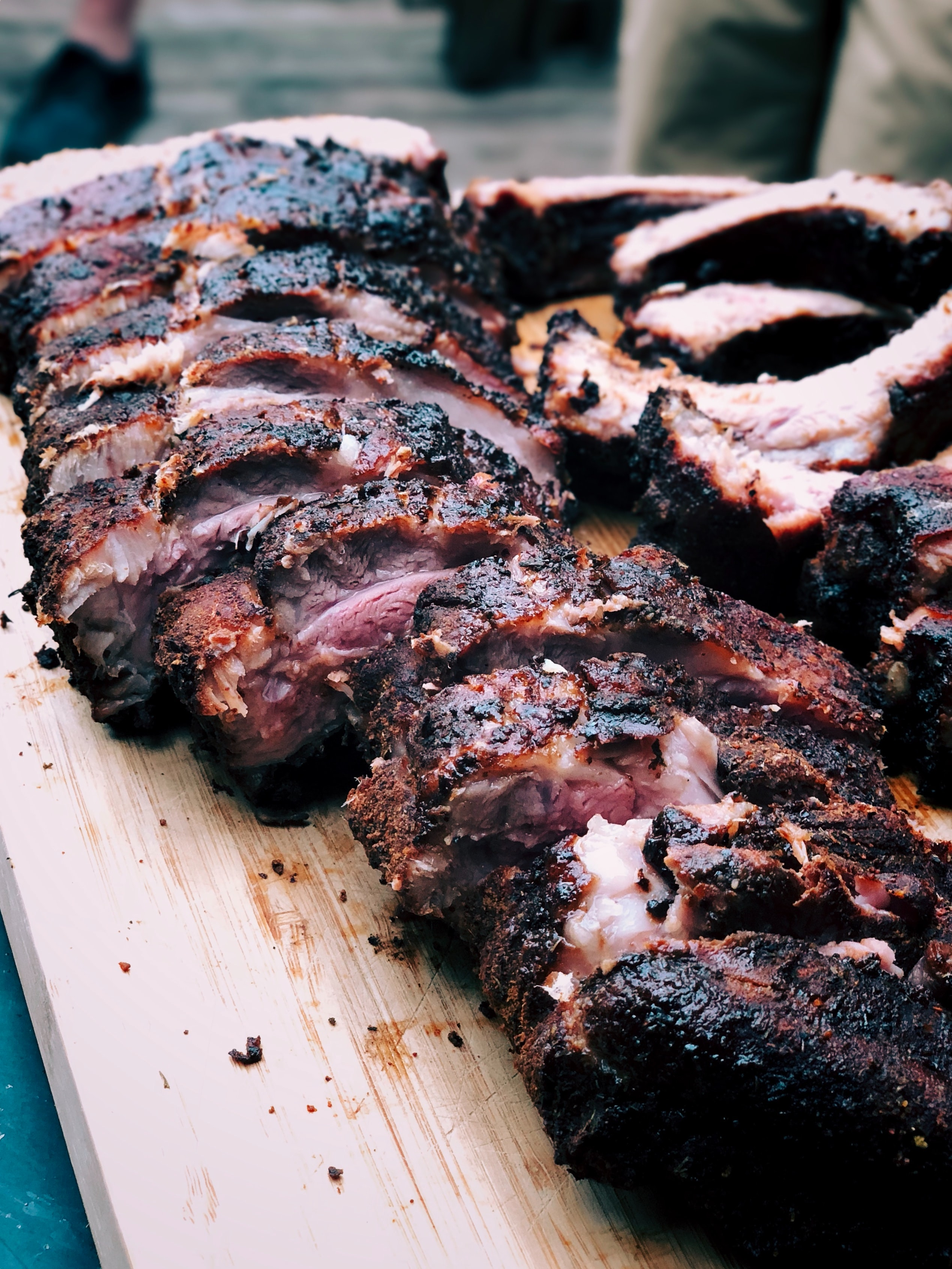
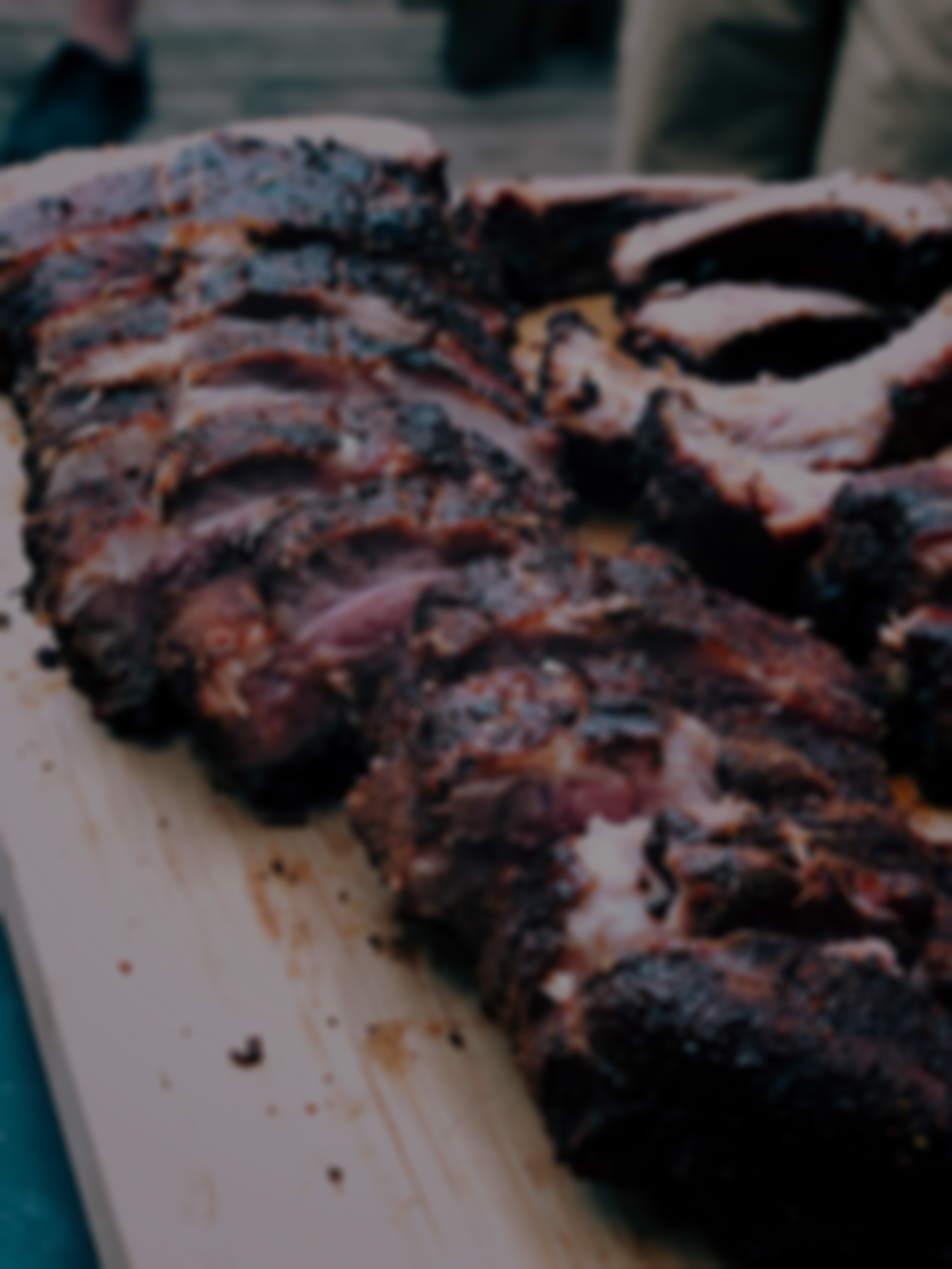
Added blurred bg

diff --git a/style.css b/style.css
@@ -2,6 +2,7 @@ body {
     margin: 0 auto;
     font-family: 'Source Sans 3', sans-serif;
     color: #404040;
+    text-align: center;
 }
 
 /* =======
@@ -32,7 +33,6 @@ Typography
 }
 
 .headline, .sub-headline {
-    text-align: center;
     color: white;
     /* border: 1px blue solid; */
 }
@@ -57,18 +57,16 @@ Typography
     font-size: 1.3125;
     font-weight: 900;
     margin-bottom: 0;
-    text-align: center;
 }
 
 .form h3 {
     font-size: 1.1rem;
     margin-top: 0;
-    text-align: center;
+    
 }
 
 .long-copy, .fine-print {
-    text-align: center;
-    width: 90%;
+    width: 85%;
     margin: 0 auto;
 }
 
@@ -86,3 +84,19 @@ Layout
     order: -1;
 }
 
+/* big screens */
+
+@media (min-width: 750px) {
+    .flex {
+        display: flex;
+        align-items: center;
+    }
+
+    .bbq-bg {
+        width: 65%;
+    }
+
+    .form {
+        width: 35%;
+    }
+}

diff --git a/index.html b/index.html
@@ -13,7 +13,7 @@
         <link href="https://fonts.googleapis.com/css2?family=Source+Sans+3:wght@300;400;900&display=swap" rel="stylesheet">
     </head>
 
-    <body>
+    <body class="flex">
         <div class="bbq-bg">
             <p class="headline">Learn how to make <strong>the best BBQ ribs</strong> in town</p>
 
